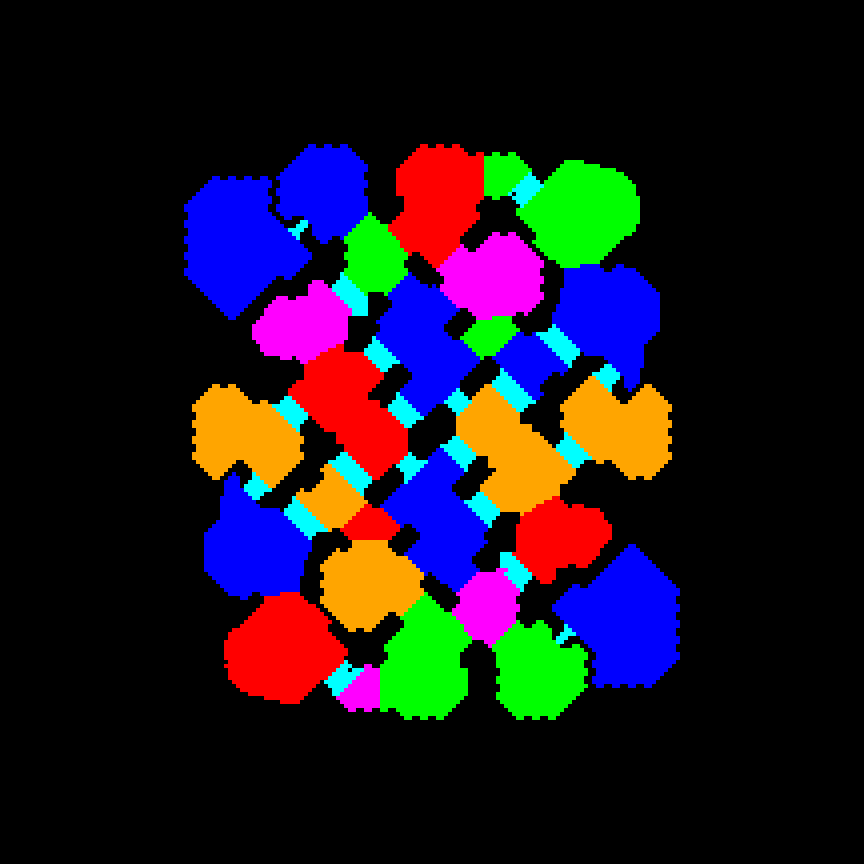
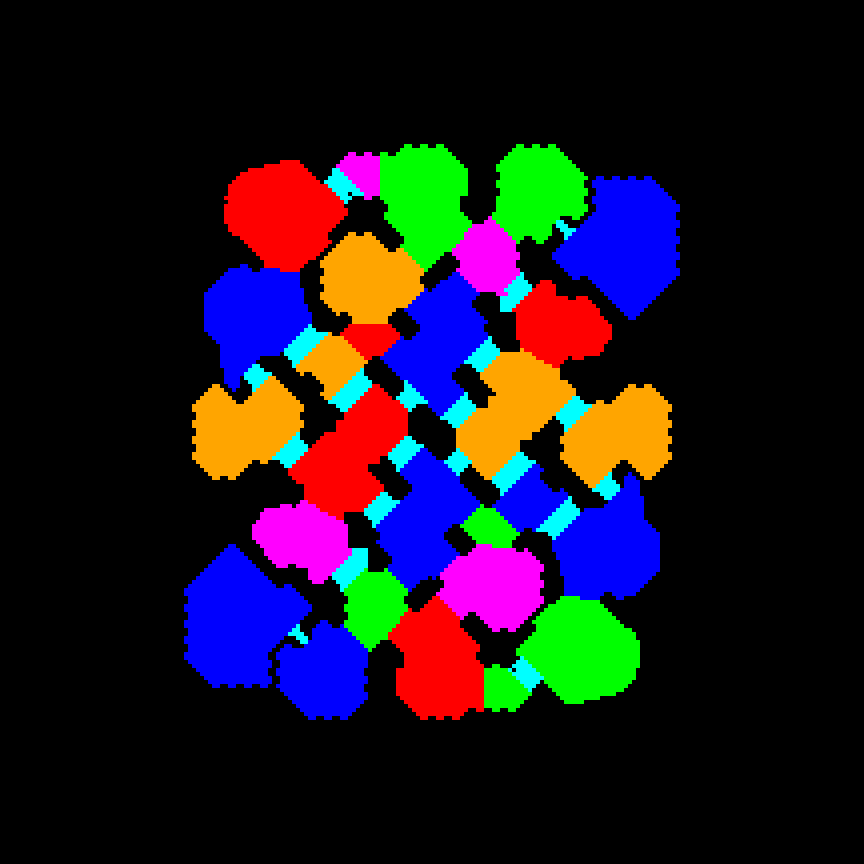
Forgot to flip the images

Changed region(s): [[0.1875, 0.1562, 0.8125, 0.8438]]

diff --git a/Bot/MapKnowledge/RegionAnalyzer/RegionDataStore.cs b/Bot/MapKnowledge/RegionAnalyzer/RegionDataStore.cs
@@ -63,7 +63,7 @@ public static class RegionDataStore {
 
     /// <summary>
     /// Saves the regions as an image where each region has a different color than its neighbors.
-    /// The saved imaged is actually horizontally flipped because the SC2 origin is the bottom left, while an image origin is top left.
+    /// The saved imaged is actually upside down because the SC2 origin is the bottom left, while an image origin is top left.
     /// (Oh well. Fix it if you want, I don't)
     /// </summary>
     /// <param name="mapName"></param>
